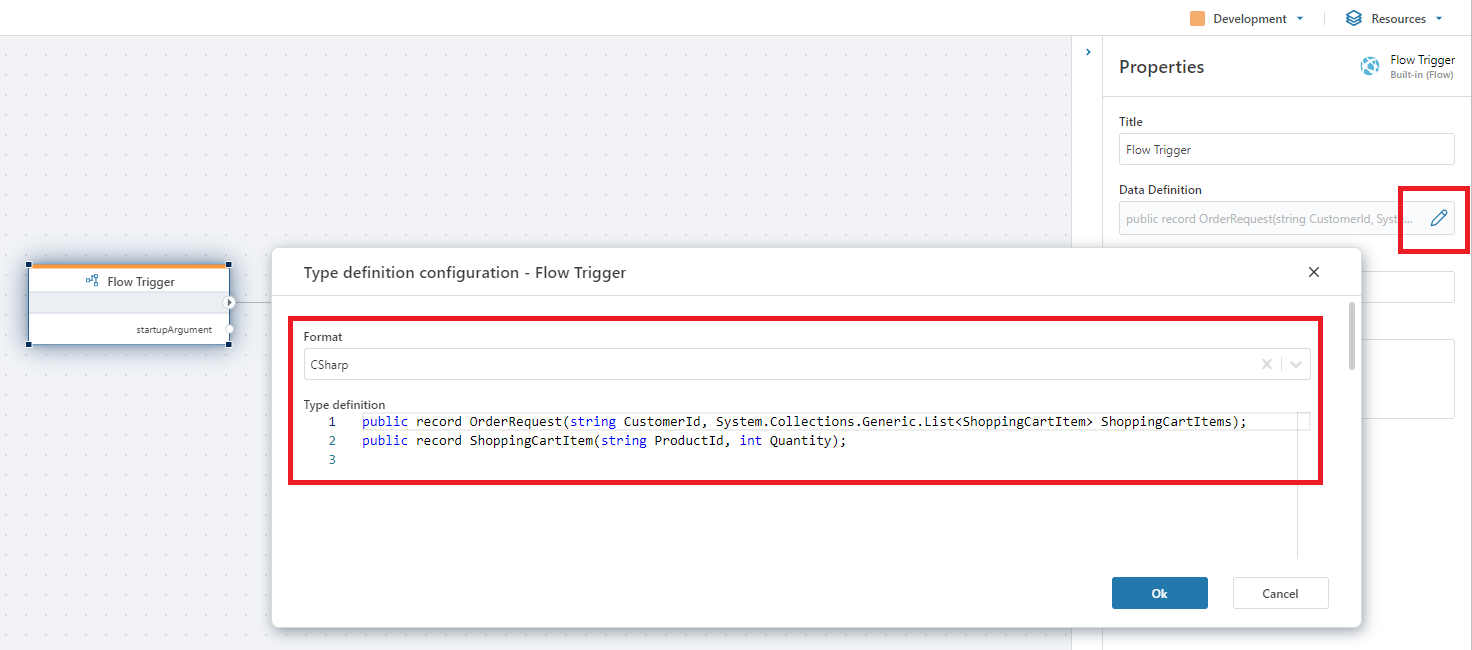
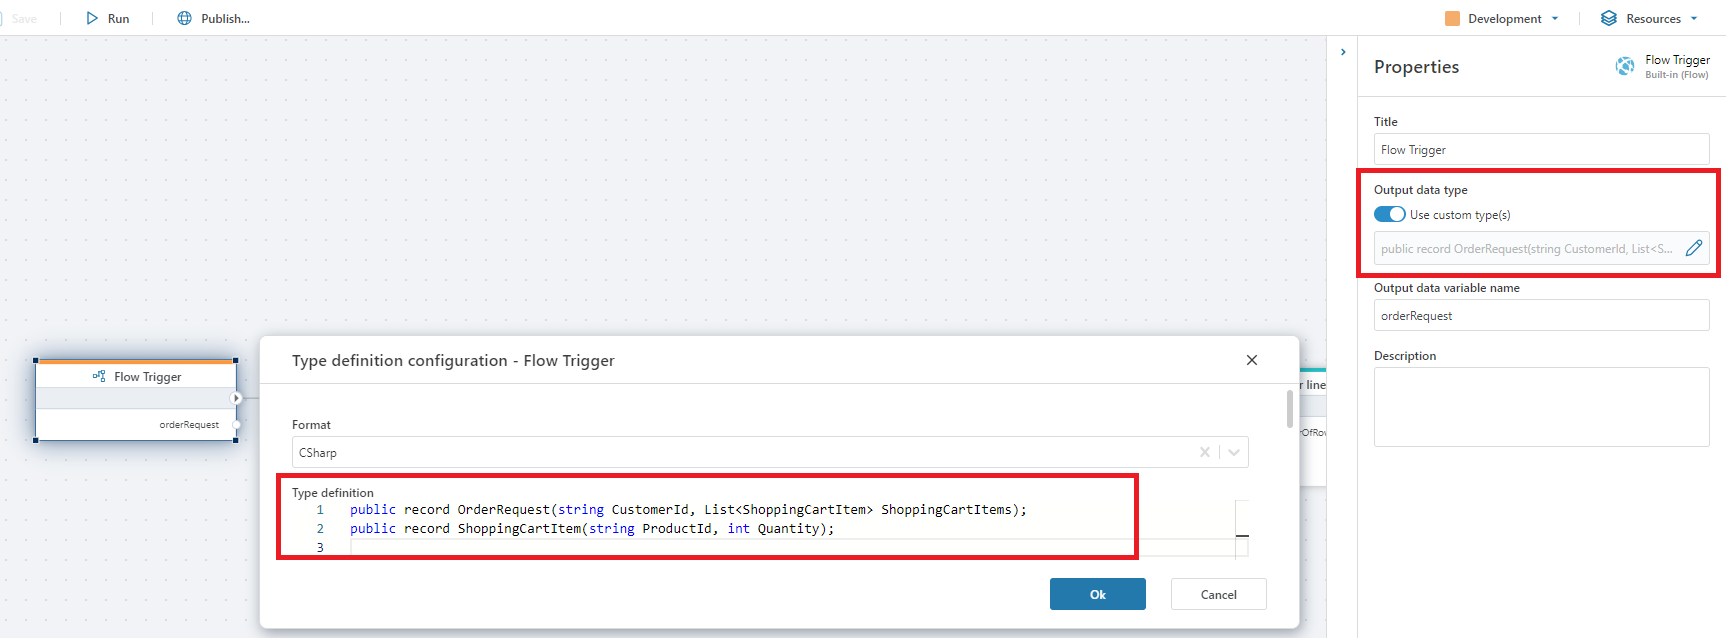
update nested execution docs

diff --git a/articles/flow/triggers/flow-trigger.md b/articles/flow/triggers/flow-trigger.md
@@ -1,3 +1,15 @@
 # Flow trigger
 
- 
+A Flow trigger defines the entry point of a Flow when it is executed from another Flow.
+The Flow trigger also defines how to convert data passed as input, to a format that can be used in the Flow. 
+
+## Properties
+
+| Name                 | Type       | Description                                                   |
+|----------------------|------------|---------------------------------------------------------------|
+| Output data type     | Required   | Defines the data type of the object that the trigger outputs. By defining a data type, you define a contract of what the Flow expects as input. The trigger will try to convert input to the Flow to the specified data type. If the input cannot be converted to the specified type and format, the execution will fail. |
+| Output variable name | Required   | The name of the variable that the output from the trigger is stored in. |
+
+### Example
+
+Using the Flow trigger is demonstrated in the [nested execution topic](../flows/running-flows/nested-execution.md).

diff --git a/articles/flow/flows/running-flows/nested-execution.md b/articles/flow/flows/running-flows/nested-execution.md
@@ -42,7 +42,7 @@ This example demonstrates how to run a Flow within another Flow. We will call th
 
 2) In `Create order`, create a [Flow trigger](../../triggers/flow-trigger.md) to define the entry point of the Flow, and the format of the data that `Create order` accepts as input from `Order processor`.
 
-3) Select the Flow trigger and click `Data definition` in the `Properties` panel. Define the following data format:  
+3) Select the Flow trigger, toggle `Output data type` to `Use custom type(s)`, and open the data type editor in the `Properties` panel. Define the following data format:  
 ![img](../../../../images/nested_execution_example_create_order_datatype.png)
 
 4) Define the business logic to process the shopping cart items. As this is beyond the scope of this example, we will not go into details on these steps. A quick-and-dirty implementation would be to simply insert data to a database. The image below shows a series of steps to create an order id, create order lines and save them to a SQL Server database.
